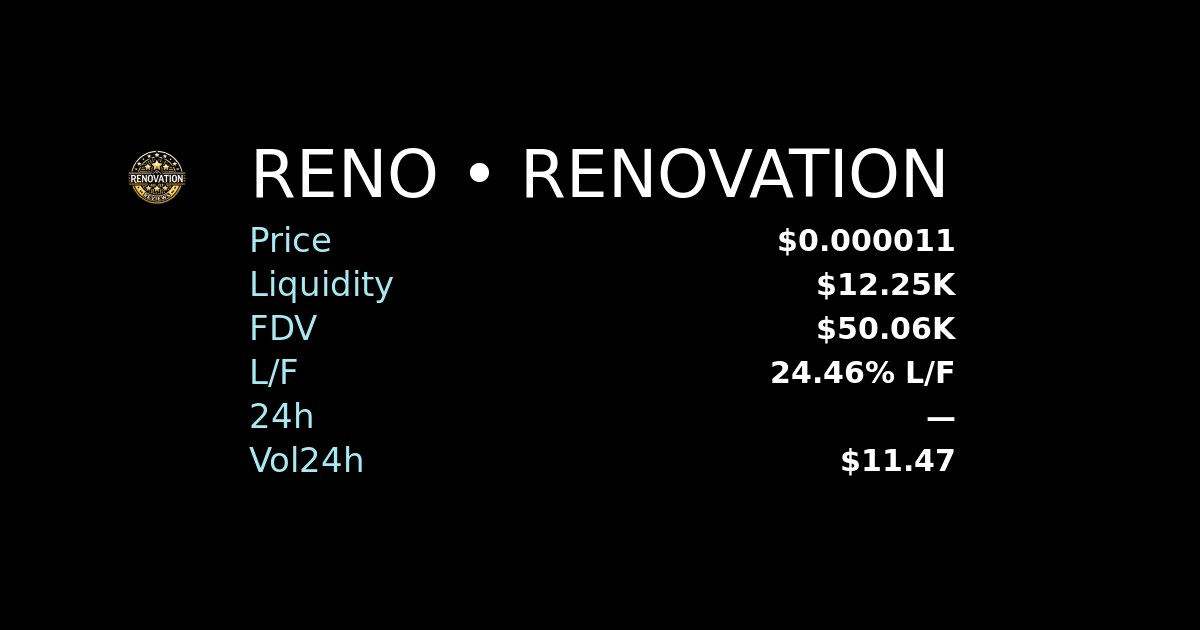
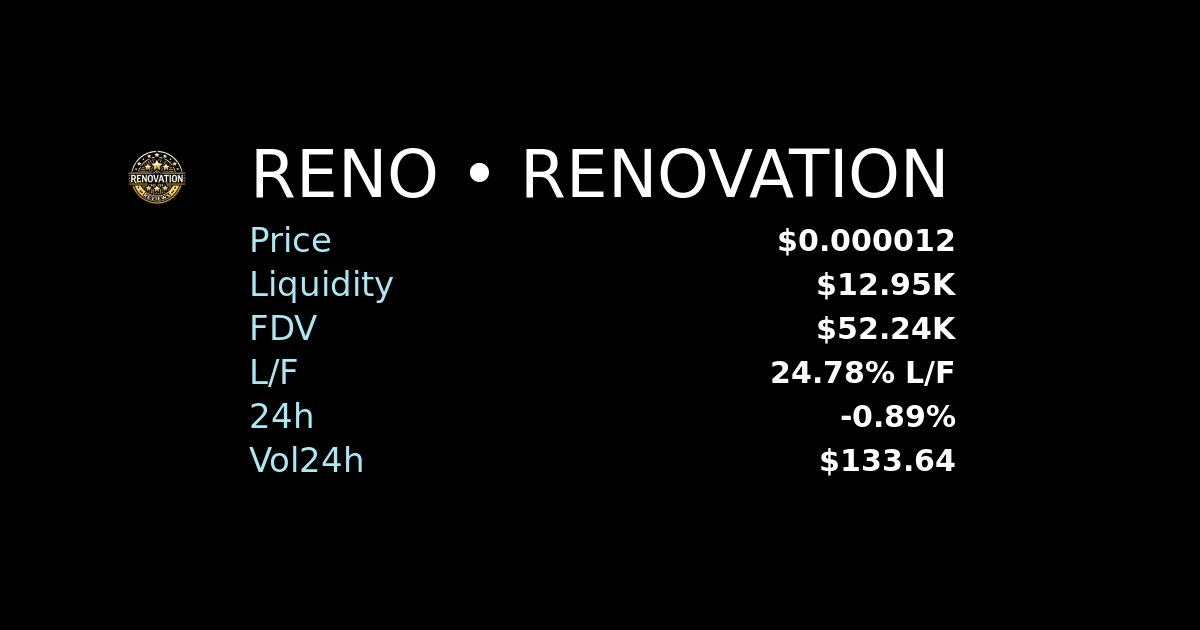
chore: update sitemap & token pages

diff --git a/token/BrEiwuaLCuG7nG9bMuDg9ihp6sisvD6DCqNjrudHxmzg/index.html b/token/BrEiwuaLCuG7nG9bMuDg9ihp6sisvD6DCqNjrudHxmzg/index.html
@@ -4,14 +4,14 @@
     <meta charset="utf-8" />
     <meta name="viewport" content="width=device-width,initial-scale=1" />
     <title>RENO on Solana</title>
-    <meta name="description" content="RENOVATION • Price: $0.000011 • Liquidity: $12.25K" />
+    <meta name="description" content="RENOVATION • Price: $0.000012 • Liquidity: $12.95K" />
     <meta name="author" content="builders-toronto" />
     <meta name="keywords" content="solana, memecoin, bonk, wif, dog, inu, pepe, cat, meme, ponk, samo, purry, purr, kitty, meow, woof, frog, snek, toad, bob, dino, monke, monkey, ape, corgi, floki, elon" />
 
     <!-- OG -->
     <meta property="og:type" content="website" />
     <meta property="og:title" content="RENO on Solana" />
-    <meta property="og:description" content="RENOVATION • Price: $0.000011 • Liquidity: $12.25K" />
+    <meta property="og:description" content="RENOVATION • Price: $0.000012 • Liquidity: $12.95K" />
     <meta property="og:url" content="https://fdv.lol/token/BrEiwuaLCuG7nG9bMuDg9ihp6sisvD6DCqNjrudHxmzg" />
     <meta property="og:image" content="https://fdv.lol/token/BrEiwuaLCuG7nG9bMuDg9ihp6sisvD6DCqNjrudHxmzg/og.jpg" />
     <meta property="og:image:width" content="1200" />
@@ -21,7 +21,7 @@
     <!-- Twitter -->
     <meta name="twitter:card" content="summary_large_image" />
     <meta name="twitter:title" content="RENO on Solana" />
-    <meta name="twitter:description" content="RENOVATION • Price: $0.000011 • Liquidity: $12.25K" />
+    <meta name="twitter:description" content="RENOVATION • Price: $0.000012 • Liquidity: $12.95K" />
     <meta name="twitter:image" content="https://fdv.lol/token/BrEiwuaLCuG7nG9bMuDg9ihp6sisvD6DCqNjrudHxmzg/og.jpg" />
 
     <link rel="icon" type="image/png" href="/src/assets/images/icons/fdv.lol.ico" />
@@ -35,7 +35,7 @@
       "@type": "WebSite",
       "name": "RENO on Solana",
       "url": "https://fdv.lol/token/BrEiwuaLCuG7nG9bMuDg9ihp6sisvD6DCqNjrudHxmzg",
-      "description": "RENOVATION • Price: $0.000011 • Liquidity: $12.25K",
+      "description": "RENOVATION • Price: $0.000012 • Liquidity: $12.95K",
       "keywords": [
         "solana",
         "memecoin",
